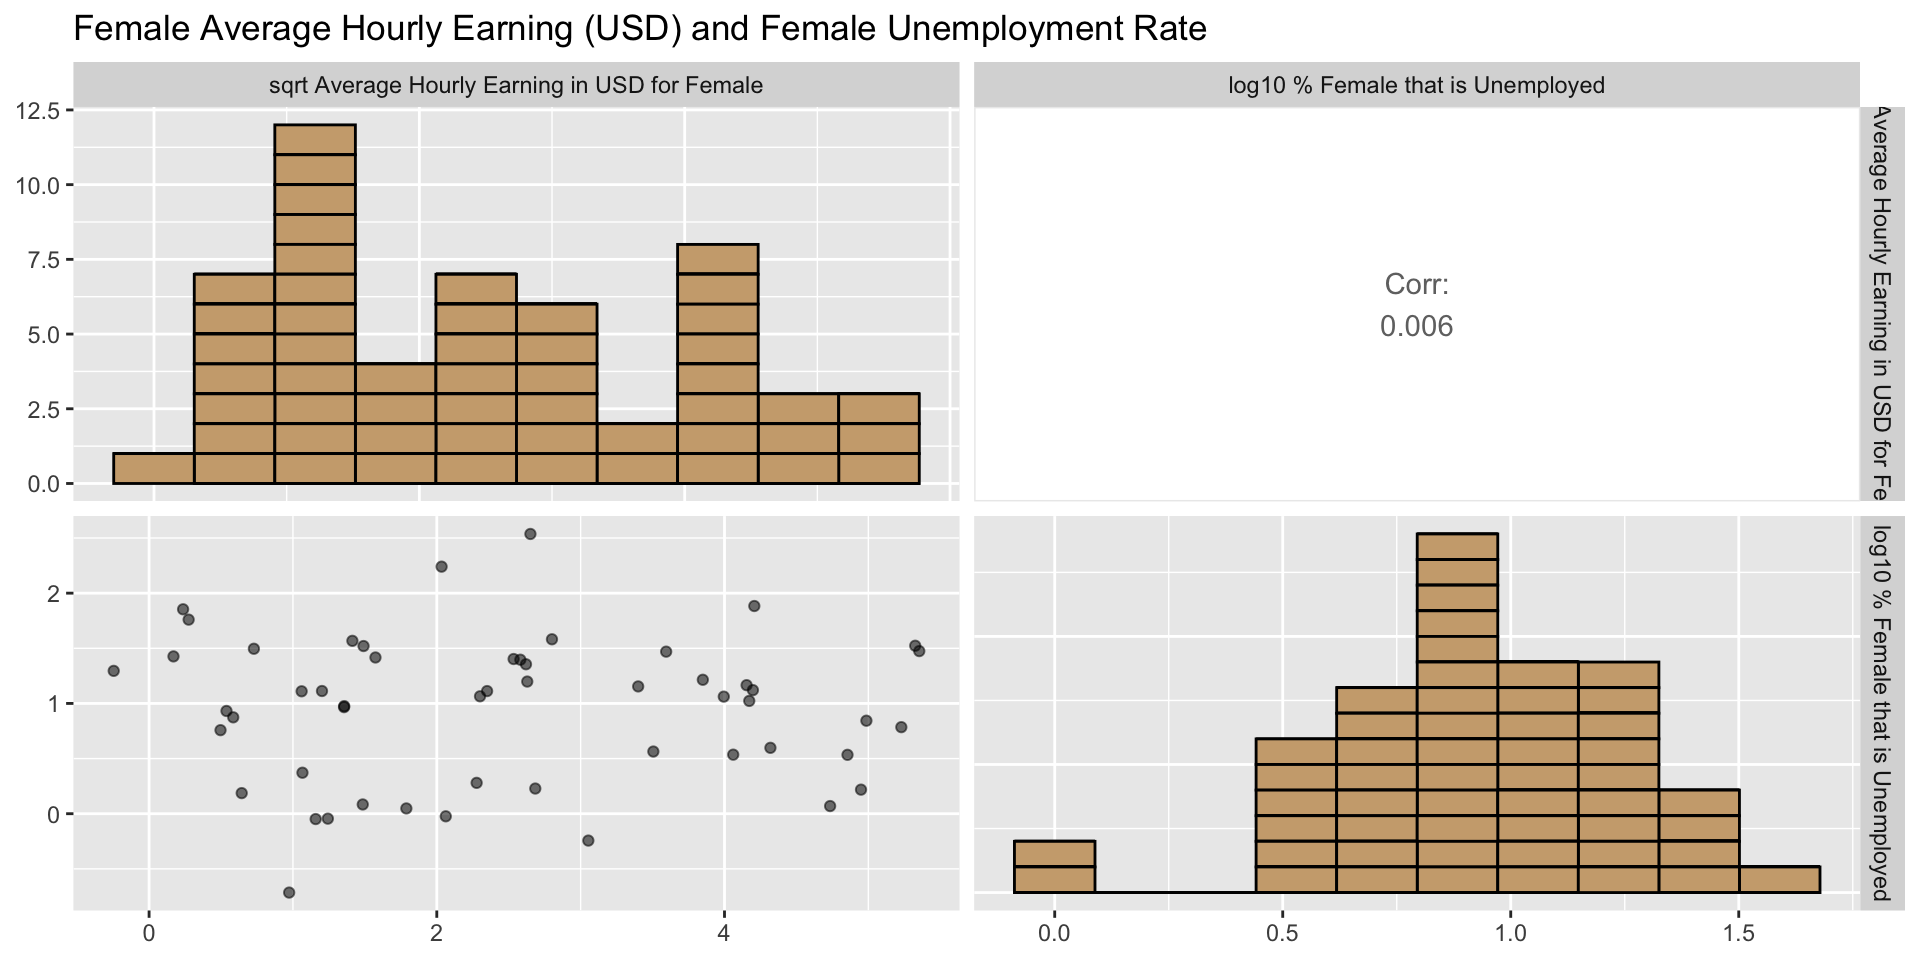
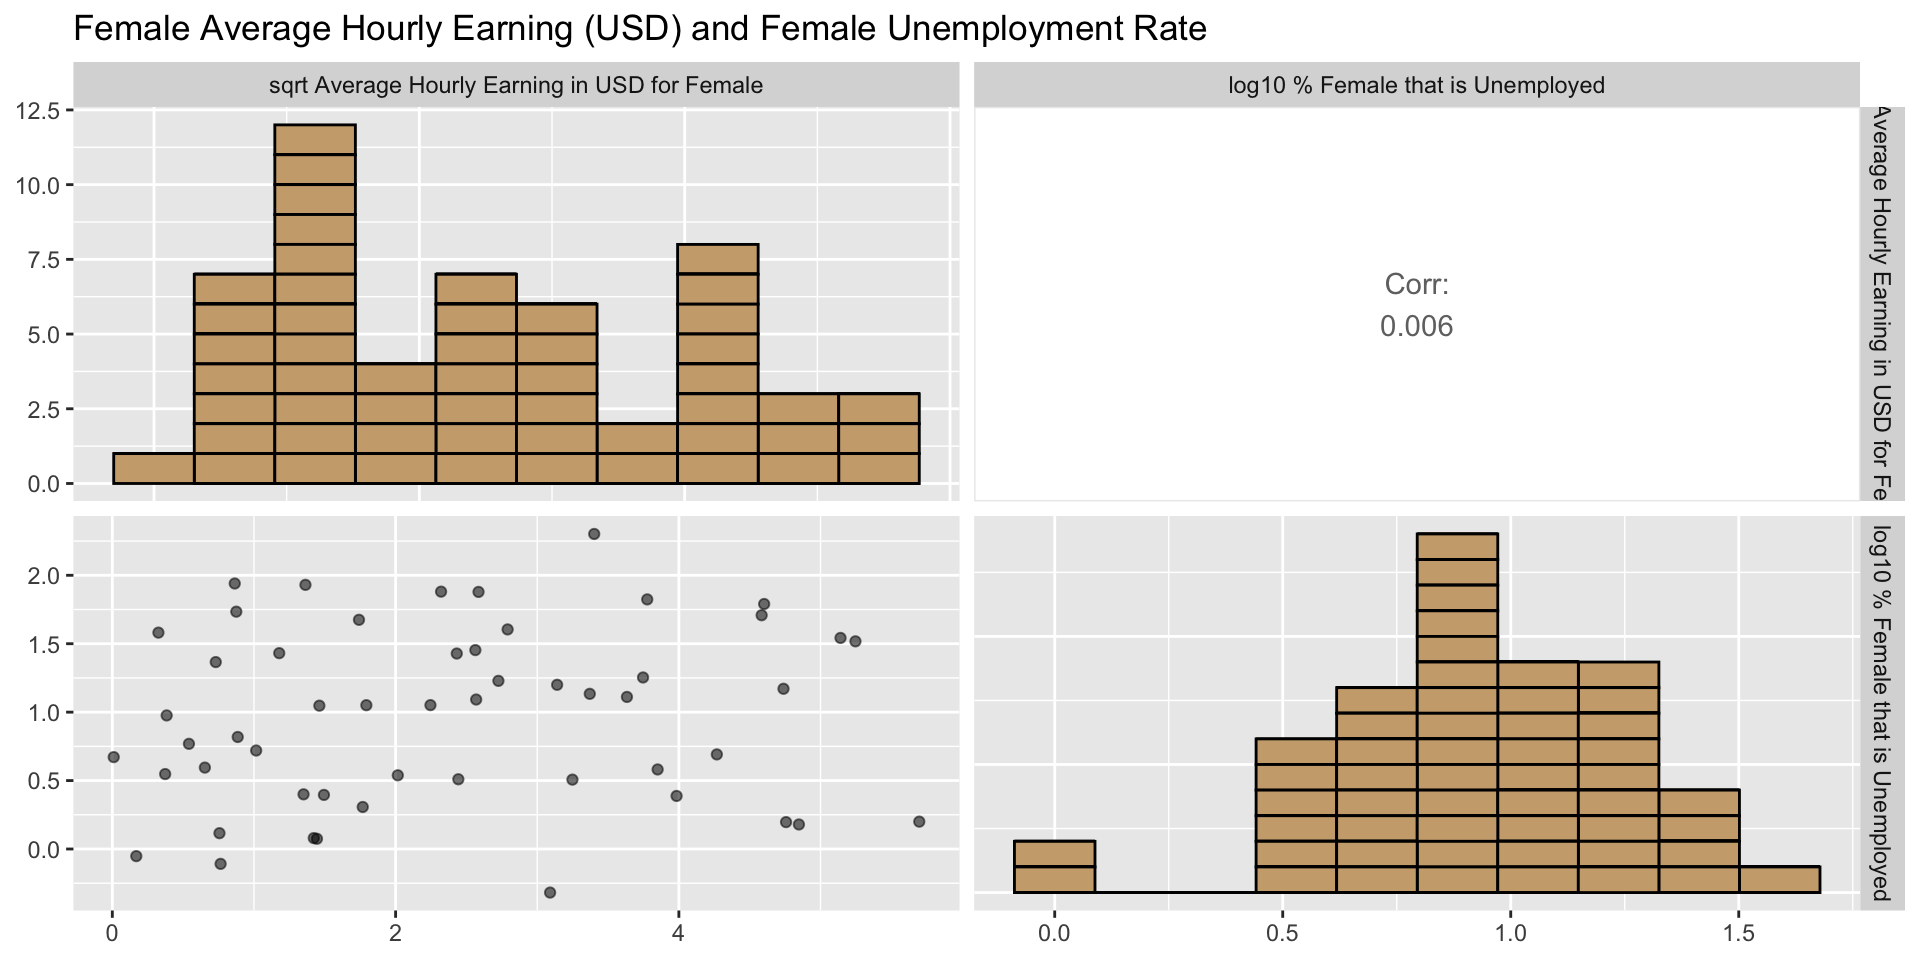
fixed stuff

diff --git a/csc3007-black2/csc3007-black2.html b/csc3007-black2/csc3007-black2.html
@@ -445,8 +445,8 @@
 <div class="cell">
 <div class="cell-output-display">
 
-<div class="datatables html-widget html-fill-item-overflow-hidden html-fill-item" id="htmlwidget-b3f9d0fbb3a25a3f5858" style="width:100%;height:auto;"></div>
-<script type="application/json" data-for="htmlwidget-b3f9d0fbb3a25a3f5858">{"x":{"filter":"none","vertical":false,"data":[["Albania","Argentina","Armenia","Australia","Austria","Bangladesh","Barbados","Belarus","Bolivia (Plurinational State of)","Brazil","Bulgaria","Cabo Verde","Cameroon","Chile","Colombia","Costa Rica","Côte d'Ivoire","Croatia","Cyprus","Czechia","Denmark","Dominican Republic","Ecuador","El Salvador","Estonia","Ethiopia","Fiji","Finland","France","Germany","Greece","Guatemala","Guinea","Honduras","Hungary","Iceland","India","Iraq","Ireland","Israel","Jamaica","Japan","Jordan","Kazakhstan","Kenya","Kyrgyzstan","Latvia","Lebanon","Lithuania","Luxembourg","Madagascar","Malawi","Malaysia","Malta","Mauritius","Mexico","Montenegro","Morocco","Mozambique","Namibia","Nepal","Netherlands","New Zealand","Nigeria","North Macedonia","Norway","Pakistan","Panama","Paraguay","Peru","Philippines","Poland","Portugal","Republic of Korea","Republic of Moldova","Romania","Rwanda","Serbia","Slovakia","Slovenia","Spain","State of Palestine","Suriname","Sweden","Switzerland","Thailand","Trinidad and Tobago","Uganda","Ukraine","United Arab Emirates","United Kingdom of Great Britain and Northern Ireland","United Republic of Tanzania","Uruguay","Viet Nam","Zimbabwe"],[80,60,80,100,100,20,50,50,70,80,100,70,50,80,90,60,80,100,90,90,90,90,80,90,100,30,80,100,90,100,100,60,50,60,90,100,40,70,90,70,50,70,40,70,90,40,100,50,100,100,40,70,30,90,90,80,60,70,70,70,60,100,90,30,80,100,20,80,100,100,100,100,100,70,90,100,90,100,100,90,100,40,60,100,90,60,80,80,50,60,90,80,90,80,70],[34.11,31.6,26.19,37.8,33.24,10.74,45.9,49.11,29.21,39.43,39,46.04,49.26,29.88,null,41.04,56.89,26.41,21.35,26.8,26.76,40.41,36.44,44.27,37.16,26.52,38.89,36.89,34.63,29.39,28.02,29.72,null,50.89,38.9,41.9,14.62,21.84,35.28,34.57,56.69,14.84,61.96,36.96,24.78,37.78,45.83,21.21,39.24,25.78,31.77,15.62,23.28,30.93,30.21,35.97,35.78,12.79,24.33,43.57,13.17,27.07,39.95,30.28,26.26,34.46,4.93,47.38,38.09,30.33,50.51,43.05,37.13,15.65,45.68,33.56,28.62,32.74,33.7,40.13,33.23,20.08,43.25,40.25,33.53,35.11,44.51,31.76,41.34,21.51,36.83,23.26,34.55,26.33,33.7],[null,null,20.4,null,4,null,null,null,null,null,7,null,5.3,7.8,null,11,3.9,null,23,4.7,13,null,null,null,8,2.9,5.5,9,9.9,6,35,null,null,null,7.8,7,null,null,null,4,null,null,null,null,null,null,12,14.4,20,4,null,null,null,7,null,null,null,null,null,null,null,10,4.2,3.4,null,4.5,null,null,null,3.7,null,null,18,null,4.6,5,17,null,10.7,18,23.7,41.2,null,7,null,null,null,11.7,null,null,5.3,2.7,null,null,17.9],[3.10287048859548,0.491261108027729,1.46965156566731,null,17.1095064695321,0.575815401750315,null,1.94199460284031,2.88171083841856,2.76707817765641,3.45042543745644,2.06420665356903,1.08761977721828,3.87397710099506,0.828497980499861,5.81895010142687,null,6.57498645029781,12.3818796818983,8.10902930940437,30.6832015366389,1.60540715431642,3.2,2,7.8793779793898,null,null,20.3738202038508,18.0100068100338,17.3346315546576,9.00500340501691,2.1295487384209,null,1.87423279947242,4.84051906883028,24.7956921330938,null,null,24.7637593637965,10.53279393664,0.821899827664432,null,2.81555311540952,null,null,null,6.75375255376268,0.546051705127948,5.40300204301015,28.1406356406778,0.265180239455141,0.180287565160201,3.55033761285002,12.3818796818983,2.51741549141088,2.05779299667242,4.38993915994574,null,null,null,0.669379279181439,27.0150102150507,null,null,2.8743198446765,26.5053890139148,0.257434686553871,4.29938518791813,2.02457407505939,1.74261370694971,null,5.75511260625725,5.62812712813557,40.7172146656446,null,5.85771540893691,0.191139159856171,2.12288995765896,7.76681543682709,10.130628830644,15.7587559587796,null,null,18.5463026306389,43.1208292252003,null,null,0.439176422239427,0.808692050883884,null,19.9118116342619,null,5.73108507948279,1.30972237397294,0.0055920407216879]],"container":"<table class=\"display\">\n  <thead>\n    <tr>\n      <th>Country<\/th>\n      <th>% Legal Frameworks<\/th>\n      <th>% Managerial Positions<\/th>\n      <th>% Females Unemployed<\/th>\n      <th>Average Hourly Earnings $USD<\/th>\n    <\/tr>\n  <\/thead>\n<\/table>","options":{"initComplete":"function(settings, json) {\n$(this.api().table().container()).css({'font-size': '50%'});\n}","columnDefs":[{"className":"dt-right","targets":[1,2,3,4]}],"order":[],"autoWidth":false,"orderClasses":false}},"evals":["options.initComplete"],"jsHooks":[]}</script>
+<div class="datatables html-widget html-fill-item-overflow-hidden html-fill-item" id="htmlwidget-61f756ea5b7d29794965" style="width:100%;height:auto;"></div>
+<script type="application/json" data-for="htmlwidget-61f756ea5b7d29794965">{"x":{"filter":"none","vertical":false,"data":[["Albania","Argentina","Armenia","Australia","Austria","Bangladesh","Barbados","Belarus","Bolivia (Plurinational State of)","Brazil","Bulgaria","Cabo Verde","Cameroon","Chile","Colombia","Costa Rica","Côte d'Ivoire","Croatia","Cyprus","Czechia","Denmark","Dominican Republic","Ecuador","El Salvador","Estonia","Ethiopia","Fiji","Finland","France","Germany","Greece","Guatemala","Guinea","Honduras","Hungary","Iceland","India","Iraq","Ireland","Israel","Jamaica","Japan","Jordan","Kazakhstan","Kenya","Kyrgyzstan","Latvia","Lebanon","Lithuania","Luxembourg","Madagascar","Malawi","Malaysia","Malta","Mauritius","Mexico","Montenegro","Morocco","Mozambique","Namibia","Nepal","Netherlands","New Zealand","Nigeria","North Macedonia","Norway","Pakistan","Panama","Paraguay","Peru","Philippines","Poland","Portugal","Republic of Korea","Republic of Moldova","Romania","Rwanda","Serbia","Slovakia","Slovenia","Spain","State of Palestine","Suriname","Sweden","Switzerland","Thailand","Trinidad and Tobago","Uganda","Ukraine","United Arab Emirates","United Kingdom of Great Britain and Northern Ireland","United Republic of Tanzania","Uruguay","Viet Nam","Zimbabwe"],[80,60,80,100,100,20,50,50,70,80,100,70,50,80,90,60,80,100,90,90,90,90,80,90,100,30,80,100,90,100,100,60,50,60,90,100,40,70,90,70,50,70,40,70,90,40,100,50,100,100,40,70,30,90,90,80,60,70,70,70,60,100,90,30,80,100,20,80,100,100,100,100,100,70,90,100,90,100,100,90,100,40,60,100,90,60,80,80,50,60,90,80,90,80,70],[34.11,31.6,26.19,37.8,33.24,10.74,45.9,49.11,29.21,39.43,39,46.04,49.26,29.88,null,41.04,56.89,26.41,21.35,26.8,26.76,40.41,36.44,44.27,37.16,26.52,38.89,36.89,34.63,29.39,28.02,29.72,null,50.89,38.9,41.9,14.62,21.84,35.28,34.57,56.69,14.84,61.96,36.96,24.78,37.78,45.83,21.21,39.24,25.78,31.77,15.62,23.28,30.93,30.21,35.97,35.78,12.79,24.33,43.57,13.17,27.07,39.95,30.28,26.26,34.46,4.93,47.38,38.09,30.33,50.51,43.05,37.13,15.65,45.68,33.56,28.62,32.74,33.7,40.13,33.23,20.08,43.25,40.25,33.53,35.11,44.51,31.76,41.34,21.51,36.83,23.26,34.55,26.33,33.7],[null,null,20.4,null,4,null,null,null,null,null,7,null,5.3,7.8,null,11,3.9,null,23,4.7,13,null,null,null,8,2.9,5.5,9,9.9,6,35,null,null,null,7.8,7,null,null,null,4,null,null,null,null,null,null,12,14.4,20,4,null,null,null,7,null,null,null,null,null,null,null,10,4.2,3.4,null,4.5,null,null,null,3.7,null,null,18,null,4.6,5,17,null,10.7,18,23.7,41.2,null,7,null,null,null,11.7,null,null,5.3,2.7,null,null,17.9],[3.10287048859548,0.491261108027729,1.46965156566731,null,17.1095064695321,0.575815401750315,null,1.94199460284031,2.88171083841856,2.76707817765641,3.45042543745644,2.06420665356903,1.08761977721828,3.87397710099506,0.828497980499861,5.81895010142687,null,6.57498645029781,12.3818796818983,8.10902930940437,30.6832015366389,1.60540715431642,3.2,2,7.8793779793898,null,null,20.3738202038508,18.0100068100338,17.3346315546576,9.00500340501691,2.1295487384209,null,1.87423279947242,4.84051906883028,24.7956921330938,null,null,24.7637593637965,10.53279393664,0.821899827664432,null,2.81555311540952,null,null,null,6.75375255376268,0.546051705127948,5.40300204301015,28.1406356406778,0.265180239455141,0.180287565160201,3.55033761285002,12.3818796818983,2.51741549141088,2.05779299667242,4.38993915994574,null,null,null,0.669379279181439,27.0150102150507,null,null,2.8743198446765,26.5053890139148,0.257434686553871,4.29938518791813,2.02457407505939,1.74261370694971,null,5.75511260625725,5.62812712813557,40.7172146656446,null,5.85771540893691,0.191139159856171,2.12288995765896,7.76681543682709,10.130628830644,15.7587559587796,null,null,18.5463026306389,43.1208292252003,null,null,0.439176422239427,0.808692050883884,null,19.9118116342619,null,5.73108507948279,1.30972237397294,0.0055920407216879]],"container":"<table class=\"display\">\n  <thead>\n    <tr>\n      <th>Country<\/th>\n      <th>% Legal Frameworks<\/th>\n      <th>% Managerial Positions<\/th>\n      <th>% Females Unemployed<\/th>\n      <th>Average Hourly Earnings $USD<\/th>\n    <\/tr>\n  <\/thead>\n<\/table>","options":{"initComplete":"function(settings, json) {\n$(this.api().table().container()).css({'font-size': '50%'});\n}","columnDefs":[{"className":"dt-right","targets":[1,2,3,4]}],"order":[],"autoWidth":false,"orderClasses":false}},"evals":["options.initComplete"],"jsHooks":[]}</script>
 </div>
 </div>
 </section>
@@ -819,9 +819,9 @@ formatted_5_1_1 &lt;- indicator_5_1_1_employment_economic_benefits |&gt;
 /Users/yxchia/Documents/Github &amp; Codes/csc3007-black2/csc3007-black2/csc3007-black2.qmd:726:73: style: [trailing_whitespace_linter] Trailing whitespace is superfluous.
   mutate("log_10(% Females Unemployed)" = log10(`% Females Unemployed`), 
                                                                         ^
-/Users/yxchia/Documents/Github &amp; Codes/csc3007-black2/csc3007-black2/csc3007-black2.qmd:727:50: style: [trailing_whitespace_linter] Trailing whitespace is superfluous.
-         "sqrt(`% Gender Equality Frameworks`)" = 
-                                                 ^
+/Users/yxchia/Documents/Github &amp; Codes/csc3007-black2/csc3007-black2/csc3007-black2.qmd:727:48: style: [trailing_whitespace_linter] Trailing whitespace is superfluous.
+         "sqrt(% Gender Equality Frameworks)" = 
+                                               ^
 /Users/yxchia/Documents/Github &amp; Codes/csc3007-black2/csc3007-black2/csc3007-black2.qmd:730:3: style: [commented_code_linter] Commented code should be removed.
 # x &lt;- merged_data$`% Gender Equality Frameworks`
   ^~~~~~~~~~~~~~~~~~~~~~~~~~~~~~~~~~~~~~~~~~~~~~~
@@ -843,9 +843,9 @@ formatted_5_1_1 &lt;- indicator_5_1_1_employment_economic_benefits |&gt;
 /Users/yxchia/Documents/Github &amp; Codes/csc3007-black2/csc3007-black2/csc3007-black2.qmd:737:5: style: [commented_code_linter] Commented code should be removed.
 #   mutate("Box-Cox % Gender Equality Frameworks" = new_x)
     ^~~~~~~~~~~~~~~~~~~~~~~~~~~~~~~~~~~~~~~~~~~~~~~~~~~~~~
-/Users/yxchia/Documents/Github &amp; Codes/csc3007-black2/csc3007-black2/csc3007-black2.qmd:743:60: style: [trailing_whitespace_linter] Trailing whitespace is superfluous.
-        columns = c("sqrt(`% Gender Equality Frameworks`)", 
-                                                           ^
+/Users/yxchia/Documents/Github &amp; Codes/csc3007-black2/csc3007-black2/csc3007-black2.qmd:743:58: style: [trailing_whitespace_linter] Trailing whitespace is superfluous.
+        columns = c("sqrt(% Gender Equality Frameworks)", 
+                                                         ^
 /Users/yxchia/Documents/Github &amp; Codes/csc3007-black2/csc3007-black2/csc3007-black2.qmd:745:81: style: [line_length_linter] Lines should not be more than 80 characters.
         diag = list(continuous = wrap("barDiag", bins = 8, color = "black", alpha = 1)),
 ~~~~~~~~~~~~~~~~~~~~~~~~~~~~~~~~~~~~~~~~~~~~~~~~~~~~~~~~~~~~~~~~~~~~~~~~~~~~~~~~^~~~~~~~
